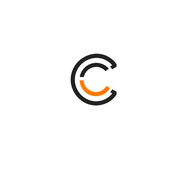
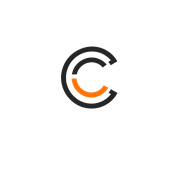
파비콘 교체, 로고·네비 크기 수정

Changed region(s): [[0.3333, 0.25, 0.6667, 0.6111]]

diff --git a/css/style.css b/css/style.css
@@ -105,10 +105,10 @@ header {
   display: flex; align-items: center; justify-content: space-between; gap: 32px;
 }
 .brand { display: flex; align-items: center; gap: 12px; }
-.brand-logo { height: 140px; width: auto; max-width: 320px; }
+.brand-logo { height: 42px; width: auto; max-width: 220px; }
 .nav-links { display: flex; gap: 28px; align-items: center; }
 .nav-links a {
-  font-size: 14px; color: var(--text-dim); font-weight: 500;
+  font-size: 15px; color: var(--text-dim); font-weight: 500;
   transition: color 0.2s; position: relative; padding-bottom: 2px;
 }
 .nav-links a::after {
@@ -472,7 +472,7 @@ footer { background: var(--charcoal); color: #d6d2cb; padding: 64px 0 32px; }
   border-bottom: 1px solid #3a3633;
 }
 .footer-brand { display: flex; flex-direction: column; gap: 14px; max-width: 320px; }
-.footer-brand .brand-logo-dark { height: 60px; width: auto; }
+.footer-brand .brand-logo-dark { height: 50px; width: auto; filter: brightness(0) invert(1); }
 .footer-brand p { font-size: 13px; color: #a8a29a; line-height: 1.7; }
 .footer-cols { display: flex; gap: 64px; flex-wrap: wrap; }
 .footer-col h5 {
